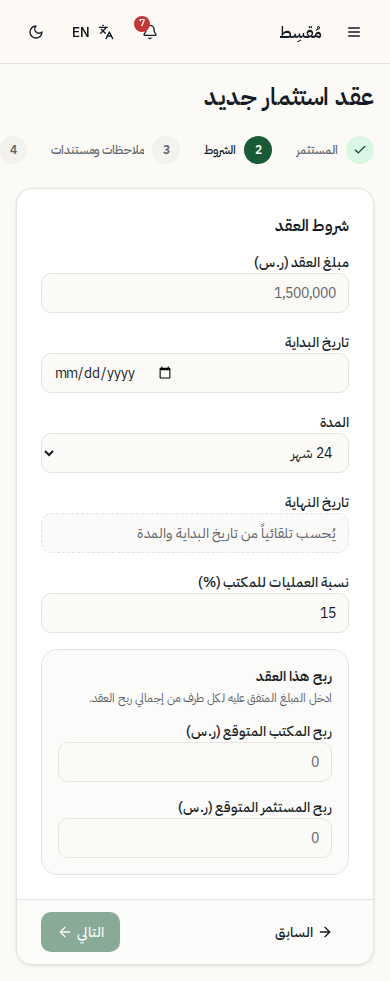
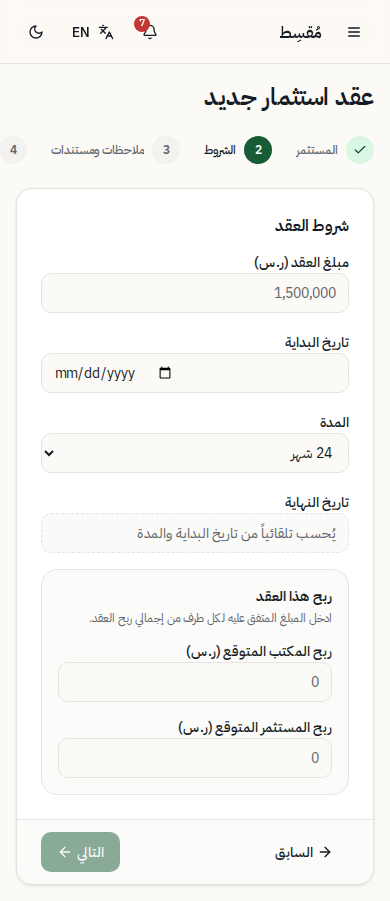
Sprint 11: simplify UX — hide technical concepts from the user
Per the simplicity-first principle, removes anything that asks the
office user to think about ratios, percentages, or distribution
formulas:

 - New investment contract form: drops the "نسبة العمليات للمكتب %"
   input entirely. The percentage is now computed automatically from
   the agreed profit amounts at save time. The user types only the
   two profit amounts (or one, for internal).
 - New investment contract form: drops the 3-column preview showing
   computed office % and investor %. Replaced with a single line
   showing the total profit only.
 - Investment contract detail: drops the "نسبة العمليات: X%" row
   from the contract info card. The "ربح العقد" card already shows
   the meaningful agreed amounts.
 - Investment contract detail: linked-installments line shortened
   from "حصة المكتب من هذا التقسيط: X · حصة المستثمر…" to
   "المكتب: X · المستثمر: Y".
 - Labels reworded to be friendlier:
     "حصة المكتب من هذا التقسيط" → "ما حصّله المكتب"
     "حصة المستثمر من هذا التقسيط" → "ما حصّله المستثمر"
     "من إعدادات المكتب" → "افتراضي المكتب"
     EN: "Office share recovered" / "Investor share recovered" /
         "Office default"

The user now sees only business concepts (Expected Office Profit,
Expected Investor Profit, Total Expected Profit, Office Share
Recovered, Investor Share Recovered) and never has to compute or
understand the underlying ratios.

Six screenshots regenerated to reflect the simplified UI.
[…]

diff --git a/apps/web/src/app/(app)/investments/new/page.tsx b/apps/web/src/app/(app)/investments/new/page.tsx
@@ -81,20 +81,23 @@ function NewInvestmentContractInner() {
   );
 
   const isInternal = investor?.type === "internal";
-  const effectiveOpsPct = isInternal ? 0 : Number(operationPct || 0);
 
   // Sprint 11 — profit amounts (absolute, as agreed at contract creation).
   // For internal investors only one field is shown; it stores into
   // investorExpectedProfit (the office is the investor) and office stays 0.
   const officeProfitNum = isInternal ? 0 : Number(officeProfit.replace(/[^\d]/g, "") || 0);
-  const investorProfitNum = isInternal
-    ? Number(investorProfit.replace(/[^\d]/g, "") || 0)
-    : Number(investorProfit.replace(/[^\d]/g, "") || 0);
+  const investorProfitNum = Number(investorProfit.replace(/[^\d]/g, "") || 0);
   const endDate = useMemo(
     () => addMonths(startDate, durationMonths),
     [startDate, durationMonths],
   );
   const amountNum = Number(amount.replace(/[^\d]/g, "") || 0);
+
+  // Derived for legacy compatibility with the operationPct field on the
+  // contract record. Not shown in the UI.
+  const effectiveOpsPct = isInternal || amountNum <= 0
+    ? 0
+    : Math.round((officeProfitNum / amountNum) * 100);
 
   const steps = [
     { key: "investor", label: c.steps.investor },
@@ -268,24 +271,6 @@ function NewInvestmentContractInner() {
                   {endDate || c.step2.endDateAuto}
                 </div>
               </div>
-              <div className="space-y-2">
-                <Label htmlFor="ops-pct">{c.step2.operationPct}</Label>
-                <Input
-                  id="ops-pct"
-                  type="number"
-                  min="0"
-                  max="50"
-                  value={isInternal ? 0 : operationPct}
-                  onChange={(e) => setOperationPct(e.target.value)}
-                  disabled={isInternal}
-                  className="num"
-                />
-                {isInternal ? (
-                  <p className="text-xs text-muted-foreground">
-                    {c.step2.operationPctInternalNote}
-                  </p>
-                ) : null}
-              </div>
 
               {/* Sprint 11 — agreed profit amounts on this contract */}
               <div className="space-y-3 rounded-xl border border-border bg-muted/30 p-4">
@@ -339,29 +324,11 @@ function NewInvestmentContractInner() {
                   </div>
                 )}
                 {(officeProfitNum > 0 || investorProfitNum > 0) ? (
-                  <div className="grid grid-cols-3 gap-2 rounded-lg bg-background p-3 text-xs">
-                    <div>
-                      <p className="text-muted-foreground">{c.step2.totalProfit}</p>
-                      <p className="num font-semibold">
-                        {(officeProfitNum + investorProfitNum).toLocaleString("ar-SA-u-nu-latn")}
-                      </p>
-                    </div>
-                    <div>
-                      <p className="text-muted-foreground">{c.step2.officeShare}</p>
-                      <p className="num font-semibold">
-                        {officeProfitNum + investorProfitNum > 0
-                          ? Math.round((officeProfitNum / (officeProfitNum + investorProfitNum)) * 100)
-                          : 0}%
-                      </p>
-                    </div>
-                    <div>
-                      <p className="text-muted-foreground">{c.step2.investorShare}</p>
-                      <p className="num font-semibold">
-                        {officeProfitNum + investorProfitNum > 0
-                          ? Math.round((investorProfitNum / (officeProfitNum + investorProfitNum)) * 100)
-                          : 0}%
-                      </p>
-                    </div>
+                  <div className="flex items-baseline justify-between gap-3 rounded-lg bg-background p-3 text-sm">
+                    <span className="text-muted-foreground">{c.step2.totalProfit}</span>
+                    <span className="num font-semibold">
+                      {(officeProfitNum + investorProfitNum).toLocaleString("ar-SA-u-nu-latn")} ر.س
+                    </span>
                   </div>
                 ) : null}
               </div>
@@ -521,8 +488,12 @@ function NewInvestmentContractInner() {
                     value={`${durationMonths} ${dict.investments.details.months}`}
                   />
                   <DataRow
-                    label={c.step2.operationPct}
-                    value={<span className="num">{effectiveOpsPct}%</span>}
+                    label={c.step2.totalProfit}
+                    value={
+                      <span className="num">
+                        <Currency value={officeProfitNum + investorProfitNum} />
+                      </span>
+                    }
                   />
                 </DataRows>
               </section>

diff --git a/apps/web/src/lib/i18n/dictionaries.ts b/apps/web/src/lib/i18n/dictionaries.ts
@@ -1002,6 +1002,8 @@ export interface Dictionary {
     recoveryTitle: string;
     officeRecovery: string;
     investorRecovery: string;
+    officeShort: string;
+    investorShort: string;
     eventsHint: string;
     contractProfitTitle: string;
     officeExpected: string;
@@ -2326,11 +2328,13 @@ const ar: Dictionary = {
     investorFirst: "المستثمر أولاً",
     proportional: "بالتساوي",
     useOfficeDefault: "استخدام افتراضي المكتب",
-    fromOfficeDefault: "من إعدادات المكتب",
-    fromInvestorOverride: "خاص بهذا المستثمر",
+    fromOfficeDefault: "افتراضي المكتب",
+    fromInvestorOverride: "خاص بالمستثمر",
     recoveryTitle: "توزيع التحصيلات",
-    officeRecovery: "حصة المكتب من هذا التقسيط",
-    investorRecovery: "حصة المستثمر من هذا التقسيط",
+    officeRecovery: "ما حصّله المكتب",
+    investorRecovery: "ما حصّله المستثمر",
+    officeShort: "المكتب",
+    investorShort: "المستثمر",
     eventsHint: "تم تطبيق {n} عملية تقسيم على هذا التقسيط",
     contractProfitTitle: "ربح العقد",
     officeExpected: "ربح المكتب المتوقع",
@@ -3653,11 +3657,13 @@ const en: Dictionary = {
     investorFirst: "Investor first",
     proportional: "Proportional",
     useOfficeDefault: "Use office default",
-    fromOfficeDefault: "From office settings",
+    fromOfficeDefault: "Office default",
     fromInvestorOverride: "Investor-specific",
     recoveryTitle: "Collection split",
-    officeRecovery: "Office share from this contract",
-    investorRecovery: "Investor share from this contract",
+    officeRecovery: "Office share recovered",
+    investorRecovery: "Investor share recovered",
+    officeShort: "Office",
+    investorShort: "Investor",
     eventsHint: "{n} splits applied on this contract",
     contractProfitTitle: "Contract profit",
     officeExpected: "Office expected profit",

diff --git a/apps/web/src/app/(app)/investments/[id]/page.tsx b/apps/web/src/app/(app)/investments/[id]/page.tsx
@@ -93,10 +93,6 @@ export default function InvestmentDetailsPage({
                 value={`${contract.durationMonths} ${d.months}`}
               />
               <DataRow
-                label={d.operationPct}
-                value={<span className="num">{contract.operationPct}%</span>}
-              />
-              <DataRow
                 label={d.document}
                 value={
                   contract.documentName ? (
@@ -236,8 +232,8 @@ export default function InvestmentDetailsPage({
                           {ic.number}
                         </Link>
                         <span className="text-xs text-muted-foreground">
-                          {dict.profitPolicy.officeRecovery}: <Currency value={office} compact /> ·
-                          {" "}{dict.profitPolicy.investorRecovery}: <Currency value={investor} compact />
+                          {dict.profitPolicy.officeShort}: <Currency value={office} compact /> ·
+                          {" "}{dict.profitPolicy.investorShort}: <Currency value={investor} compact />
                         </span>
                       </li>
                     );
